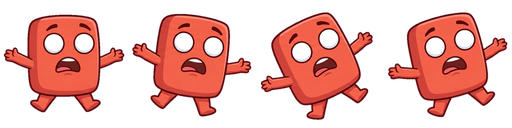
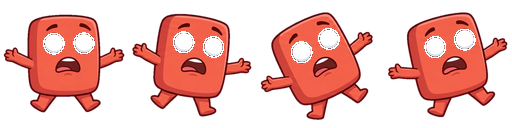
fix: remove baked-in pupils and clean up dead helmet code
- Post-process all 5 sprites to detect and remove dark pupil circles,
  replacing with white (blank eyes for realtime pupil overlay)
- Remove unused planetIndex from CharacterRenderer.update() JSDoc
- Remove unused planetIndex arg from ThreeJSTheme._updateCharacter()

diff --git a/public/js/rendering/threejs/CharacterRenderer.js b/public/js/rendering/threejs/CharacterRenderer.js
@@ -197,7 +197,7 @@ export class CharacterRenderer {
   /**
    * Update character position, pose, expression, and effects.
    * @param {object} character - Character entity
-   * @param {object} options - { planetIndex, power, time }
+   * @param {object} options - { power, time }
    */
   update(character, options = {}) {
     if (!character || !this._texturesReady) return;

diff --git a/public/js/rendering/themes/ThreeJSTheme.js b/public/js/rendering/themes/ThreeJSTheme.js
@@ -194,7 +194,6 @@ export class ThreeJSTheme extends ThemeBase {
 
     const time = performance.now() * 0.001 - this._startTime;
     this._characterRenderer.update(character, {
-      planetIndex: this._planetIndex,
       power: this._power,
       time,
     });
